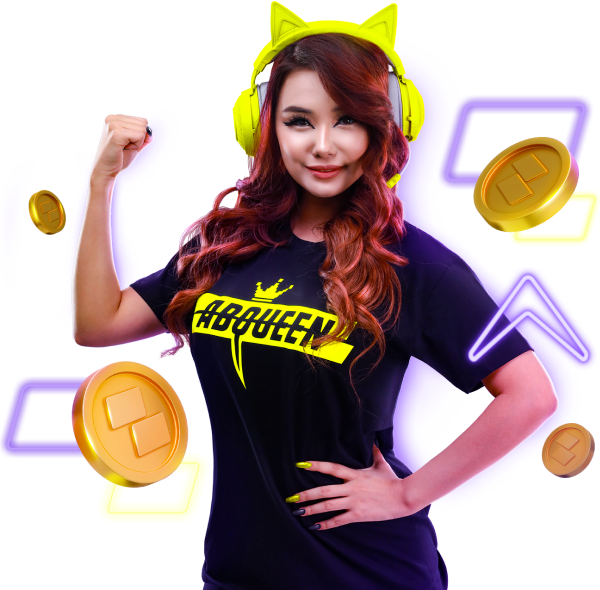
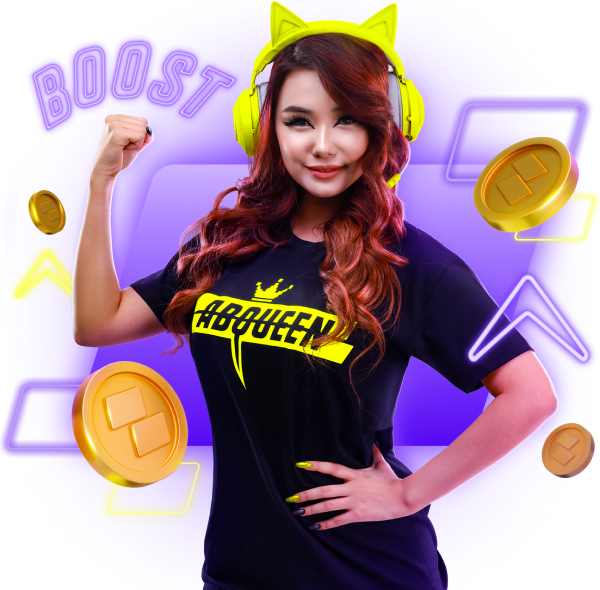
edited homepage

diff --git a/src/components/Promo/Promo.module.scss b/src/components/Promo/Promo.module.scss
@@ -9,12 +9,13 @@
     padding: 0 20px;
     display: flex;
     flex-direction: column;
-
+    justify-content: center;
+    align-items: center;
     .section {
       display: flex;
       flex-direction: column;
       gap: 20px;
-      width: 100%;
+      width: 90%;
 
       .title {
         font-weight: 900;
@@ -28,7 +29,6 @@
         letter-spacing: 0.02em;
         text-transform: uppercase;
         color: #f8ff13;
-        margin-left: 100px;
       }
 
       .group {
@@ -43,8 +43,7 @@
         gap: 10px;
         justify-content: space-between;
         align-items: center;
-        margin-left: 100px;
-        max-width: 1152px;
+        place-self: center;
         .img {
           width: 53%;
         }
@@ -61,7 +60,7 @@
             border-radius: 8px;
             width: 260px;
             height: 50px;
-            background: #EAD40C;
+            background: #ead40c;
             margin-top: 30px;
             font-family: "HelveticaNeue";
             font-weight: 500;
@@ -178,7 +177,7 @@
               border-radius: 8px;
               width: 118px;
               height: 50px;
-              background:#EAD40C;
+              background: #ead40c;
               margin-top: 30px;
               font-family: "HelveticaNeue";
               font-weight: 500;

diff --git a/src/components/PromoGroup/PromoGroup.module.scss b/src/components/PromoGroup/PromoGroup.module.scss
@@ -9,12 +9,13 @@
     padding: 0 20px;
     display: flex;
     flex-direction: column;
-
+    justify-content: center;
+    align-items: center;
     .section {
       display: flex;
       flex-direction: column;
       gap: 20px;
-      width: 100%;
+      width: 90%;
       .title {
         font-weight: 900;
         font-size: 40px;
@@ -26,7 +27,7 @@
         font-size: 64px;
         letter-spacing: 0.02em;
         text-transform: uppercase;
-        margin-left: 100px;
+        
       }
       .group {
         width: 100%;
@@ -39,7 +40,7 @@
           flex-direction: row;
           flex-wrap: wrap;
           gap: 20px;
-          margin-left: 100px;
+          
           .pic1 {
             background: url("../../assets/images/home_product_1.png");
             background-repeat: no-repeat;
@@ -157,8 +158,6 @@
           flex-direction: row;
           gap: 50px;
           align-items: center;
-          margin-left: 100px;
-          max-width: 1152px;
           .group_2_img {
             width: 50%;
             height: auto;

diff --git a/src/components/Prefooter/Prefooter.module.scss b/src/components/Prefooter/Prefooter.module.scss
@@ -36,7 +36,7 @@
         gap: 10px;
         .desc {
           font-family: "HelveticaNeue";
-          font-weight: 400;
+          font-weight: 700;
           font-size: 24px;
           color: #fff;
         }
